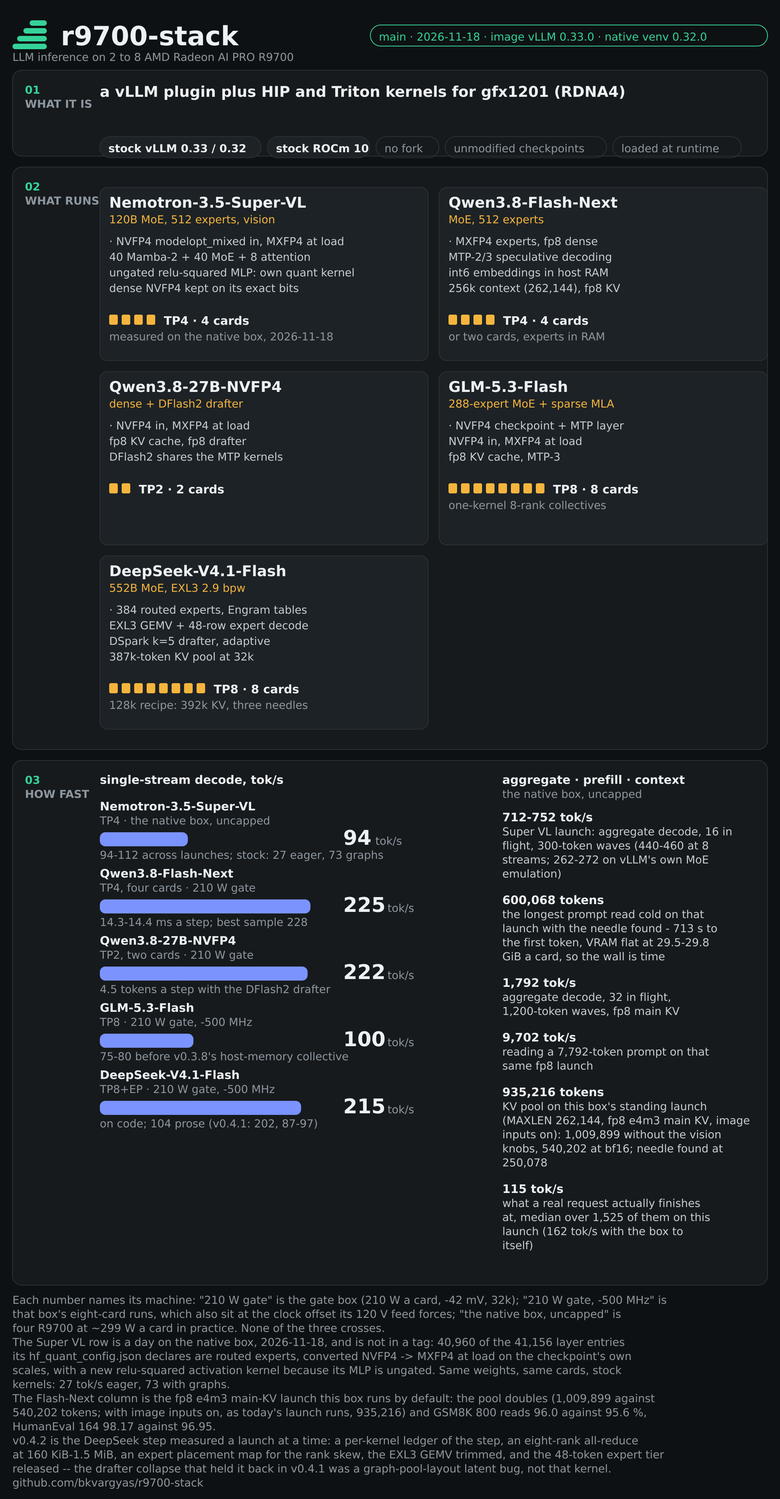
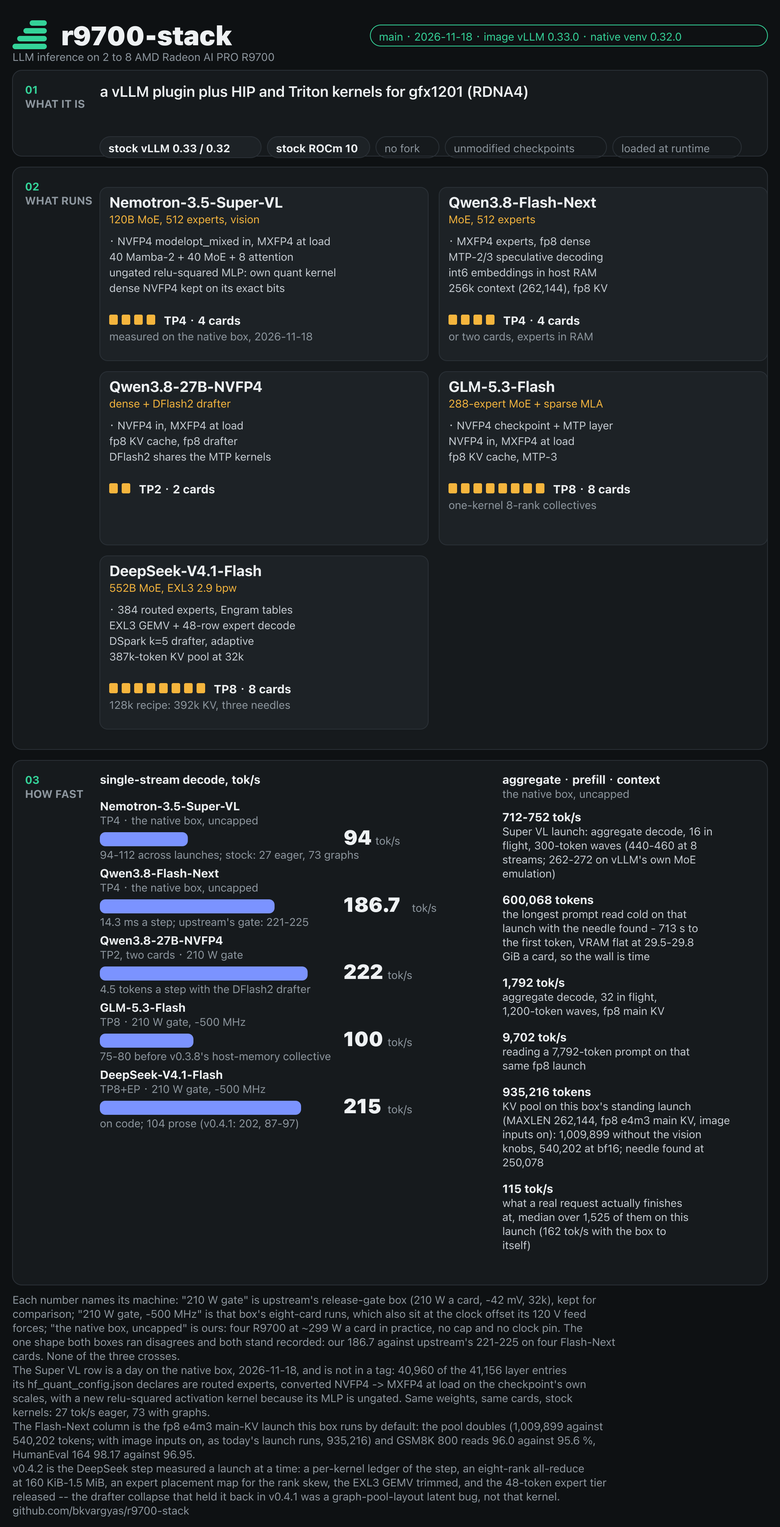
the README and its one-page figure now lead with our own measurements: the native box's 186.7 tok/s heads Flash-Next, and upstream's 210 W gate numbers, ours or not, sit in a labeled comparison column; the page legend names which machine each bar ran on and the recorded 186.7-against-221-225 disagre

Changed region(s): [[0.0, 0.5, 0.93, 1.0], [0.031, 0.0, 0.93, 0.3438], [0.031, 0.375, 0.527, 0.75]]

diff --git a/docs/summary-page.py b/docs/summary-page.py
@@ -75,17 +75,19 @@ MODELS = [
      "128k recipe: 392k KV, three needles"),
 ]
 
-# single-stream decode. Every row names its gate: the 210 W figures and the uncapped ones come from
-# different machines and have never been measured on both, so they do not share a banner.
-GATE, UNCAP = "210 W gate", "the native box, uncapped"
-# the eight-card rows take the gate box's clock offset on top of its power cap: its 120 V feed holds
+# single-stream decode. Every row names its machine: the 210 W figures are upstream's release-gate box
+# and the uncapped ones are ours; the two have never been measured on both, so they do not share a
+# banner. The one shape both boxes ran -- Flash-Next on four cards -- leads with ours at 186.7 and
+# carries upstream's 221-225 in its note: recorded, not reconciled.
+GATE, UNCAP = "210 W gate", "the native box, uncapped"        # upstream's gate box / this fork's box
+# upstream's eight-card rows take that box's clock offset on top of its power cap: its 120 V feed holds
 # eight-card runs to -500 MHz SCLK, so their numbers carry both facts and never share a banner with TP4.
 GATE8 = "210 W gate, -500 MHz"
 BARMAX, BARLEN = 250.0, 300
 BARS = [
     ("Nemotron-3.5-Super-VL", "TP4", 94,
      "94-112 across launches; stock: 27 eager, 73 graphs", UNCAP),
-    ("Qwen3.8-Flash-Next", "TP4, four cards", 225, "14.3-14.4 ms a step; best sample 228", GATE),
+    ("Qwen3.8-Flash-Next", "TP4", 186.7, "14.3 ms a step; upstream's gate: 221-225", UNCAP),
     ("Qwen3.8-27B-NVFP4", "TP2, two cards", 222, "4.5 tokens a step with the DFlash2 drafter", GATE),
     ("GLM-5.3-Flash", "TP8", 100, "75-80 before v0.3.8's host-memory collective", GATE8),
     ("DeepSeek-V4.1-Flash", "TP8+EP", 215, "on code; 104 prose (v0.4.1: 202, 87-97)", GATE8),
@@ -106,9 +108,11 @@ FACTS = [
      "(162 tok/s with the box to itself)"),
 ]
 
-FOOT = ["Each number names its machine: \"210 W gate\" is the gate box (210 W a card, -42 mV, 32k); \"210 W gate, "
-        "-500 MHz\" is that box's eight-card runs, which also sit at the clock offset its 120 V feed forces; \"the "
-        "native box, uncapped\" is four R9700 at ~299 W a card in practice. None of the three crosses.",
+FOOT = ["Each number names its machine: \"210 W gate\" is upstream's release-gate box (210 W a card, -42 mV, 32k), "
+        "kept for comparison; \"210 W gate, -500 MHz\" is that box's eight-card runs, which also sit at the clock "
+        "offset its 120 V feed forces; \"the native box, uncapped\" is ours: four R9700 at ~299 W a card in "
+        "practice, no cap and no clock pin. The one shape both boxes ran disagrees and both stand recorded: our "
+        "186.7 against upstream's 221-225 on four Flash-Next cards. None of the three crosses.",
         "The Super VL row is a day on the native box, 2026-11-18, and is not in a tag: 40,960 of the "
         "41,156 layer entries its hf_quant_config.json declares are routed experts, converted NVFP4 -> MXFP4 at load "
         "on the checkpoint's own scales, with a new relu-squared activation kernel because its MLP is ungated. Same "

diff --git a/README.md b/README.md
@@ -24,12 +24,15 @@ underneath it.
 
 
 > [!NOTE]
-> Every number here came from one of two machines, and every table names which: **the 210 W gate box** (eight R9700,
-> 210 W cap a card, -42 mV, a KVM guest with emulated PCIe switches whose 120 V feed holds eight-card runs to a
-> -500 MHz clock offset) or **the native box** (four R9700, Gen5 host, no docker, **no power cap** — ~299 W a card in
-> practice). Card count is a deployment shape, not a machine, and a 210 W number is never comparable with an uncapped
-> one. The legend with both boxes' settings, and the one place where they disagree, are at the top of
-> <a href="#speed">Speed</a>. Your rig will differ; the serve scripts carry every knob with the reason next to it.
+> Every number here comes from one of two machines, and every table names which — but they are not equals. Our own
+> measurements were taken on **the native box** (four R9700, Gen5 host, no docker, **no power cap** — ~299 W a card
+> in practice), the machine this fork runs day to day, and they lead every table. The other machine is **upstream's
+> release gate**, the **210 W gate box** (eight R9700, 210 W cap a card, -42 mV, a KVM guest with emulated PCIe
+> switches whose 120 V feed holds eight-card runs to a -500 MHz clock offset); its numbers are kept only as a
+> comparison column, never as our results. Card count is a deployment shape, not a machine, and a 210 W number is
+> never comparable with an uncapped one. The legend with both boxes' settings, and the one place where they disagree,
+> are at the top of <a href="#speed">Speed</a>. Your rig will differ; the serve scripts carry every knob with the
+> reason next to it.
 
 <p align="center">
   <a href="docs/r9700-stack-page.png"><img src="docs/r9700-stack-page.svg" alt="r9700-stack main: what runs on it, the weight formats, the speed"></a>
@@ -39,10 +42,11 @@ re-draw cannot drift from them — including which box each bar was measured on.
 it lands at 14 px; the tag's own hand-drawn <code>docs/r9700-stack-v0.4.3.svg</code> carries the same claims at
 11 px on a 1200-unit canvas, which measures out at 9.0 px in that column — clicked-to-read, so the generated page
 is what this README carries. The picture links to <code>docs/r9700-stack-page.png</code>, the same drawing at
-2000 × 3840, for zooming. Every bar names its machine: <code>210 W gate</code> is the gate box (210 W a card, -42 mV,
-32k); <code>210 W gate, -500 MHz</code> is that box's **eight-card** runs, which sit at the clock offset its 120 V
-feed forces on top of the cap; <code>the native box, uncapped</code> is this box's four R9700 at ~299 W a card in
-practice. None of the three crosses.</sub>
+2000 × 3912, for zooming. Every bar names its machine: <code>210 W gate</code> is **upstream's** gate box (210 W a
+card, -42 mV, 32k), kept here as the comparison column; <code>210 W gate, -500 MHz</code> is that box's
+**eight-card** runs, which sit at the clock offset its 120 V feed forces on top of the cap; <code>the native box,
+uncapped</code> is this box's four R9700 at ~299 W a card in practice — our measurements, and the ones the tables
+lead with. None of the three crosses.</sub>
 </p>
 
 <p align="center">
@@ -85,18 +89,19 @@ Qwen3.8-Flash-Next (MoE, 512 experts, MXFP4 experts plus fp8 dense) on four Rade
 
 | | measured | where it came from |
 |---|---:|---|
-| **decoding, one stream** | **225 tok/s** (best sample 228) | 14.3-14.4 ms a step; **the 210 W gate box**, four cards, 32k, the v0.3.3 gate — the four gates since read 221.4-222.9 |
+| **decoding, one stream** | **186.7 tok/s** on this box, uncapped, 14.3 ms a step | upstream's 210 W gate reads **225** there (best sample 228, v0.3.3; the four gates since read 221.4-222.9) — the same four cards capped; the two disagree and that is recorded, not reconciled |
 | **decoding, 32 streams** | **1,823 tok/s** aggregate (best sample 1,836.3) | 1,200-token waves, `bench/probe32.sh`; the native box, uncapped. The fp8 main-KV launch it now defaults to reads **1,792** (1,789 / 1,796) at the same protocol, and the 2026-11-08 standing launch (vLLM 0.32, router cap 4, util 0.96, `PREFIX_CACHE=0`) read **1,767 / 1,780** — inside that spread, so the router cap costs nothing measurable here (notes/bug-router-gemm-oob.md) |
-| **reading a prompt** | **9,633 tok/s** | 7,789-token prompt, the native box uncapped (7,141 at the 210 W gate); **9,702** on the fp8 launch, 7,792 tokens |
+| **reading a prompt** | **9,633 tok/s** | 7,789-token prompt, the native box uncapped; upstream's gate reads 7,141 at 210 W for comparison; **9,702** on the fp8 launch, 7,792 tokens |
 | **context** | **262,144 tokens**, needle found at 250,078 | the checkpoint's own ceiling, and the window this box serves at today; the standing launch (`MM_TP_MODE=data`, replicated vision tower) prints **797,453 tokens** (`Maximum concurrency for 262,144 tokens per request: 3.04x`) — the same launch with the tower split across the ranks printed **887,983** (3.39x), and one before that **902,153** (3.44x), so the pool is what a launch printed, not a property of the config ([notes/context-256k.md](notes/context-256k.md), and the tower price in [notes/multimodal-input.md](notes/multimodal-input.md)) — fp8 e4m3 main KV, image inputs on, `--gpu-memory-utilization 0.96`. At 0.97 the same launch read 935,216 with the vision knobs and 1,009,899 without them; 540,202 at bf16 main KV |
 | **decoding, in real work** (not a benchmark) | **162 tok/s** with the box to yourself, **115 tok/s** as a request actually finishes | 1,568 real requests off the fp8 launch's journal over 10.25 h, the 115 being the median of the 1,525 that generated >=40 tokens, prompts p50 52,083; the benchmark rows above describe a machine nobody sits on |
 
-<sub>Two boxes, two power settings, and these tables do not cross: the second table's first row is the **210 W gate
-box** and the rest is the **native box uncapped** (~299 W a card), each row naming which, and the Super VL table is
-the native box alone. The rows further down add the two-card and eight-card shapes, and the eight-card ones carry the
-gate box's -500 MHz offset too. The last row is not a benchmark at all — it is what the running serve reported about
-other people's requests, and it is the row to believe when asking what a request will feel like. Full protocols,
-sample lists and the measurements that were tried and rejected: <a href="#speed">Speed</a>,
+<sub>These tables lead with **our own measurements on this box** (the native box, four R9700, uncapped, ~299 W a
+card). Where an **upstream 210 W gate-box** number is quoted beside one of ours — the comparison cells in the first
+and third rows — the row says so in place, and the two never cross: no 210 W number is comparable with an uncapped
+one. The Super VL table is this box alone. The Speed section keeps the two-card and eight-card shapes, which are
+upstream gate-box shapes and carry its -500 MHz offset too. The last row is not a benchmark at all — it is what the
+running serve reported about other people's requests, and it is the row to believe when asking what a request will
+feel like. Full protocols, sample lists and the measurements that were tried and rejected: <a href="#speed">Speed</a>,
 <a href="notes/native-4xr9700.md">notes/native-4xr9700.md</a>,
 <a href="notes/context-256k.md">notes/context-256k.md</a>.</sub>
 
@@ -141,67 +146,38 @@ On the four-card native box this fork runs, the main KV cache is fp8 e4m3 by def
 
 ## Speed
 
-Two power settings sit behind these tables, and the capped one spans two hosts. A row that names neither its machine
-nor its power is a row you cannot use:
+Two power settings sit behind these tables, and the capped one spans two hosts — but only one of them is ours, and
+the tables are ordered that way. A row that names neither its machine nor its power is a row you cannot use:
 
-| | **the 210 W gate box** | **the native box** |
+| | **the native box — ours** | **the 210 W gate box — upstream's release gate** |
 |---|---|---|
-| what it is | the release-gate machine: eight R9700 in a KVM guest with emulated PCIe switches, the pinned stock ROCm 10 image, vLLM 0.33.0 | this repo's day-to-day machine: four R9700 on a Gen5 x16 host, no docker, venv vLLM 0.32.0+rocm723 |
-| cards in a launch | 2, 4 or 8 | 4 |
-| power a card | **capped at 210 W**, with a -42 mV offset | **no cap set** — median **299 W** at `gpu_busy_percent` 100 (132 samples, 179-303) |
-| clocks | its 120 V feed holds **eight-card** runs to a **-500 MHz** SCLK offset | stock |
+| what it is | this fork's day-to-day machine: four R9700 on a Gen5 x16 host, no docker, venv vLLM 0.32.0+rocm723 | upstream's release-gate machine: eight R9700 in a KVM guest with emulated PCIe switches, the pinned stock ROCm 10 image, vLLM 0.33.0 |
+| cards in a launch | 4 | 2, 4 or 8 |
+| power a card | **no cap set** — median **299 W** at `gpu_busy_percent` 100 (132 samples, 179-303) | **capped at 210 W**, with a -42 mV offset |
+| clocks | stock | its 120 V feed holds **eight-card** runs to a **-500 MHz** SCLK offset |
 
-One more thing the gate rows carry: from v0.4.x the gate box is **VM100**, the eight-card guest above. The v0.3.2 and
-v0.3.3 rows still quoted below were gated on the older **four-card Gen3 test box** at the same 210 W and -42 mV, and
-the two-card row was measured on both hosts side by side — same cap, different PCIe, which is why it prints 122 and
-143 instead of one number.
+One more thing the gate rows carry: from v0.4.x upstream gates on **VM100**, the eight-card guest above. The v0.3.2
+and v0.3.3 rows still quoted in the comparison section were gated on the older **four-card Gen3 test box** at the
+same 210 W and -42 mV, and the two-card row was measured on both hosts side by side — same cap, different PCIe,
+which is why it prints 122 and 143 instead of one number.
 
-Where this file says **this box**, it means the native box. Three rules follow, and every table below applies them.
-**Card count is a deployment shape, not a machine**: the same 4-card launch has been gated on the first box at 210 W
-and run on the second uncapped, and the two disagree — 225 tok/s single stream at the gate against 186.7 uncapped,
-recorded rather than reconciled, because host, pin and clocks differ and the 210 W figure has never been re-measured
-on the native box. **Nothing at 210 W is comparable with anything uncapped.** And every eight-card number carries the
--500 MHz offset as well as the cap.
+Where this file says **this box** or **our box**, it means the native box. Three rules follow, and every table below
+applies them. **Card count is a deployment shape, not a machine**: the same 4-card launch has been gated upstream at
+210 W and runs here uncapped, and the two disagree — **186.7** tok/s single stream uncapped on this box against
+**225** at the gate — recorded rather than reconciled, because host, pin and clocks differ and the 210 W figure has
+never been re-measured on the native box. **Nothing at 210 W is comparable with anything uncapped.** And every
+eight-card number carries the -500 MHz offset as well as the cap.
 
-### The gate table: 210 W a card, 32k context, single stream unless said otherwise
+The four subsections that open this section are **our measurements, on this box**: a second model this box ran in
+November (Super VL), the 32k recipe, the checkpoint's full 262,144-token context, and real traffic. The first three
+are **benchmarks** — fixed prompt lengths, equal `max_tokens` waves, nothing else arriving while you measure — and
+the real-traffic one is **not**; its decode numbers are roughly a third of the benchmark ones for reasons that are
+understood rather than surprising, and it is the one to read for what a user actually gets. What
+follows them is **upstream's release-gate record** at 210 W — the four / two / eight-card shapes this box does not
+run — kept as a comparison column so the same builds can be read side by side, never mixed into one number with
+ours.
 
-The rows are the release gate, and the record behind them is the tag that last ran a full one —
-[notes/release-v0.4.3.md](notes/release-v0.4.3.md); [notes/release-v0.4.4.md](notes/release-v0.4.4.md) and
-[notes/release-v0.4.5.md](notes/release-v0.4.5.md) say in their own words that they did not re-run it.
-
-Each row names the tags its range spans, and the newest gate is the number in bold. Nothing here is one run: the
-same configuration is re-gated at every release, and a range that spans v0.3.3 to v0.4.3 is a range across image
-pins, `KVMEM` budgets and, for GLM, an instrument change.
-
-| configuration, and the gates the row spans | single stream | aggregate | prompt processing | KV cache |
-|---|---:|---:|---:|---:|
-| **Qwen3.8-27B-NVFP4**, 2 cards, DFlash2 — v0.3.3-v0.4.3 | **217.1 tok/s** (217-222 across the gates; 4.5 tokens a step) | 514 / 655 at 8 / 16 streams | 3,822 tok/s (8k prompt) | 367,494 tokens |
-| **Qwen3.8-Flash-Next**, 4 cards, MTP-3 — v0.3.3-v0.4.3 | **222.9 tok/s** (221-225 across the gates) | 469 / 912 at 8 / 16 | 6,743 tok/s (8k) | 472,025 tokens |
-| **Qwen3.8-Flash-Next**, 2 cards, experts in host RAM — v0.3.2 | 122 (Gen3 test box) / **143** (Gen5) | 177 / 257 at 8 streams | 2.6k / 3.7k | 221,184 tokens |
-| **GLM-5.3-Flash**, 8 cards, MTP-3 — v0.4.0-v0.4.3 | **97.5 tok/s** (88.1 / 93.2 / 95.1 / 97.5, decode-only medians; v0.3.8's gate read **100.0** on the probe, which is not the same instrument) | 173 then 231 at four streams | 2.5-3.4k tok/s | **284,829** at `KVMEM 2.65` (203,329 at v0.4.2, 176,443 at v0.4.1) |
-| **DeepSeek-V4.1-Flash** EXL3 2.9 bpw, 8 cards, DSpark k=5 — v0.4.2-v0.4.3 | **104 prose / 215-222 code** (v0.4.1: 87-97 / 202) | 192-229 prose / 413-422 code at 4 streams, 313-317 / 529-555 at 8 | 3.6k tok/s | 387,069 (32k) / 392,289 (128k recipe) |
-
-The **single stream** column is the gate probe's mean over its four prompt types (code / prose / json / math, run on
-the box rather than from this repo) for the Qwen rows, and the **decode-only median** for GLM from
-v0.4.0 on — that instrument change, not a regression, is why v0.3.8's GLM reads 100.0 and v0.4.0's reads 88.1. The KV
-column moves with `KVMEM` and `UTIL`, not with the model, so each row quotes the newest gate's budget. The eight-card
-rows carry VM100's -500 MHz clock offset on top of the 210 W cap; the four- and two-card rows are cards 0-3 and 0-1 of
-the same box.
-
-Two DGX Sparks on TensorFold serve the same DeepSeek pack at 81 prose / 118 code single stream and 154-166 at four
-streams. DeepSeek accuracy on this stack: GSM8K 193-196 / 200, needles 9 / 9 to 28k and retrieval at 126.7k-token
-prompts, decode flat to 28k of context. How each number was produced, and what was tried and rejected:
-[PROGRESS.md](PROGRESS.md) and `notes/`.
-
-Each subsection below carries its box in the heading. The first is a different model from the gate table; the
-second is the 210 W gate box again; the next two are the native box uncapped, the same recipe at 32k and then at the
-checkpoint's full 262,144 tokens. All of those are **benchmarks**: fixed prompt lengths, equal `max_tokens` waves,
-nothing else arriving while you measure. The last is **not** a benchmark — it is 1,568 real requests that arrived at
-the running serve, plus a 1,400-request window on the launch before it, kept for comparison — and its decode numbers
-are roughly a third of the benchmark ones for reasons that are understood rather than surprising. Read the benchmark
-tables for what the kernels can do; read the real-traffic one for what a user gets.
-
-### Nemotron-3.5-Super-VL-120B-A12B, 512 experts: the native box, four cards, uncapped
+### Our box on a second model: Nemotron-3.5-Super-VL-120B-A12B, 512 experts, four cards, uncapped
 
 What this box ran for a day in 2026-11-18 - parked now, and none of it reverted. The pack is `modelopt_mixed`
 MIXED_PRECISION and **40,960 of
@@ -239,55 +215,7 @@ hours (`hf_quant_config.json`
 is not optional; the plugin registers `modelopt_mixed` inside `register()`, so a broken import quietly serves stock):
 [notes/nemotron-super-vl.md](notes/nemotron-super-vl.md).
 
-### The release configurations: the 210 W gate box, four / two / eight cards, 32k
-
-**Qwen3.8-Flash-Next (MXFP4 experts, fp8 dense), four cards, TP4, MTP-3** — the v0.3.3 gate with a warm cache, kept
-because it is the run the block at the top of this README quotes; v0.4.3's gate on the same four cards of VM100 reads
-222.9 tok/s into a 472,025-token pool.
-
-| | |
-|---|---:|
-| single-stream decode | **225 tok/s**, 14.3 ms a step (best sample 228) |
-| aggregate decode at 1 / 2 / 4 / 8 streams (BetterBench) | 175 / 277 / 410 / 530 tok/s |
-| aggregate decode at 8 / 16 streams (probe) | 620 / 944 tok/s |
-| time to first token | 70-80 ms |
-| prompt processing at 2k / 8k / 16k / 32k | 5,175 / 7,141 / 7,489 / 7,233 tok/s |
-| KV cache | 518,481 tokens |
-
-<details>
-<summary><b>The same model on two cards, and the 27B on two cards</b></summary>
-
-**Qwen3.8-Flash-Next, two cards, TP2, experts in host RAM** — the v0.3.2 gate, measured on two hosts at 210 W:
-
-| | PCIe Gen3 host (test box) | PCIe Gen5 host (production) |
-|---|---:|---:|
-| single-stream decode | 122 tok/s | 143 tok/s |
-| aggregate at 8 / 16 streams | 177 / 163 | 257 / 245 |
-| prompt processing at 8k | 2,594 | 3,724 |
-| KV cache | 221,184 tokens | |
-
-**Qwen3.8-27B-NVFP4, two cards, TP2, DFlash2 speculative decoding** — v0.3.3 warm-cache gate (v0.4.3 re-ran it at
-217.1 tok/s into the same 367,494-token pool):
-
-| | |
-|---|---:|
-| single-stream decode | 222 tok/s (4.5 tokens a step), 22 ms a step |
-| aggregate at 8 / 16 streams | 527 / 640-658 tok/s (probe; equal-prompt bursts match the previous release) |
-| prompt processing at 8k | 3,901-4,143 tok/s |
-| KV cache | 367,494 tokens |
-
-</details>
-
-**DeepSeek-V4.1-Flash EXL3 2.9 bpw, eight cards, TP8 + expert parallel, DSpark k = 5 adaptive** — the **210 W gate
-box at its -500 MHz clock offset**, `NSEQ 4`. The gate numbers are the Speed row above: 104 prose / 215 code single
-stream, 199-221 prose / 422 code at four streams, 317 / 555 at eight, and a **387,069-token** KV pool at
-`KVMEM 2.0`. The bring-up launch that got there is tabulated in [notes/exl3-serving.md](notes/exl3-serving.md)
-(v0.4.0 / v0.4.1, `KVMEM 1.7`: 70-75 prose / 158 code single stream, 187 / 336 at four streams, 329,008 KV tokens,
-GSM8K 195 / 200, needles 9 / 9 to 28k). Read the two as what they are: the decode gap is the Phase 4 kernel packages
-(code 158 -> 202 -> 215 tok/s), not the clock — both arms were measured at the offset — and the KV gap is `KVMEM`
-alone (1.7 = 329,008 against 2.0 = 387,069, and 1.0 at 128k = 392,289).
-
-### The native box, four cards, uncapped, at 32k
+### Our box: four cards, uncapped, at 32k
 
 The same four cards uncapped, on the recipe the box ran before the context was raised (`MAXLEN=32768 NSEQ=16`,
 vLLM 0.32.0+rocm723): 19.16 GiB of weights a card, draft acceptance 56.1% (2.68 tokens a step). This is where the
@@ -304,15 +232,15 @@ prefill and aggregate numbers in the block at the top of this README come from;
 | prompt processing at 1,951 / 7,789 / 31,166 tokens | **7,702 / 9,633 / 8,963 tok/s** |
 | KV cache | 554,982 tokens |
 
-Note that this row and the 210 W gate table disagree: uncapped, a single stream runs at **186.7 tok/s** here, while
-the cap with a -42 mV offset read **225** there (v0.3.3's gate, the run that figure comes from; the gates since read
-221.4-222.9). That is recorded, not reconciled — the two boxes differ in host, pin and clocks, and the 210 W figure
-has never been re-measured on this one.
+Note that this row and upstream's 210 W gate table kept below disagree: uncapped, a single stream runs at **186.7
+tok/s** here, while the cap with a -42 mV offset read **225** there (v0.3.3's gate, the run that figure comes from;
+the gates since read 221.4-222.9). That is recorded, not reconciled — the two boxes differ in host, pin and clocks,
+and the 210 W figure has never been re-measured on this one.
 
-### The native box, four cards, uncapped, at the checkpoint's full 262,144 tokens
+### Our box: four cards, uncapped, at the checkpoint's full 262,144 tokens
 
 The native box (four R9700, **uncapped**, vLLM 0.32.0+rocm723 in a venv), so compare these against the other native-box
-rows and not against the 210 W gate tables. Same model, TP4, MTP-3. Except where a row says otherwise this is the
+rows and not against the upstream 210 W gate tables kept below. Same model, TP4, MTP-3. Except where a row says otherwise this is the
 launch the box runs today: `MAXLEN=262144 NSEQ=32 NBT=8192` at `--gpu-memory-utilization 0.96` — 0.97 asks for
 30.90 GiB of a 31.86 GiB card against a free-at-startup reading that ranged 30.87-31.22 GiB, so it refused at both
 0.32 and 0.33 whenever the reading landed low, a coin flip rather than a regression, and 0.96 costs about 4-5% of the
@@ -342,7 +270,7 @@ fairness knob, not a speed one, and stays off. The retrieval ladder to 250,078 t
 measurements, the standing gate on this launch, the ~299 W median a card at `gpu_busy_percent` 100, and the
 metric-reading traps: [notes/context-256k.md](notes/context-256k.md).
 
-### Real traffic on the native box, not a benchmark
+### Real traffic on our box, not a benchmark
 
 Everything above this line was measured by sending requests on purpose: fixed prompt lengths, equal `max_tokens`,
 and nothing else arriving while the meter runs. That is the right way to compare builds and the wrong way to answer
@@ -384,9 +312,9 @@ and the step shape, not the decode path. Ruled out with the counters that say so
 against 1,823 aggregate), acceptance length (1.33 against 1.55-1.62 drafted tokens accepted) and context depth
 (182.6 tok/s alone under 20k prompt against 150.0 at 80-160k: **a 256k context costs one stream ~13%**).
 
-**And 162 here is not a regression against the 225 in the gate table.** That one is MTP-3 at ~3.1 accepted tokens a
-step at 32k on the 210 W gate box; this launch is MTP=2 at 2.33 a step, on contexts of 20-200k. If single-stream
-decode is wanted back, the knob is drafter depth (`MTP=3`), not the attention path.
+**And 162 here is not a regression against the 225 in upstream's gate table below.** That one is MTP-3 at ~3.1
+accepted tokens a step at 32k on the 210 W gate box; this launch is MTP=2 at 2.33 a step, on contexts of 20-200k. If
+single-stream decode is wanted back, the knob is drafter depth (`MTP=3`), not the attention path.
 
 The bf16 launch before this one (1,400 requests over 13.8 h, prompts p50 74,381, p90 concurrency 6) reads 157.7
 tok/s alone, 22.8 at three-to-four, **60.8** overall — and the two windows are **not** an fp8-vs-bf16 comparison:
@@ -397,6 +325,87 @@ Method, the four denominators, the prefill-by-prompt-size table with its p10/p90
 measurements, the drafter's whole-launch accounting, and the trap that made the first version of this table wrong
 (midpoint concurrency sampled 361 requests as "alone" and reported 137 tok/s):
 [notes/context-256k.md](notes/context-256k.md).
+
+### For comparison: upstream's release gate — 210 W a card, 32k context, four / two / eight cards
+
+Everything in this subsection is **upstream's release-gate record**, measured on the 210 W gate box and kept here
+only as a comparison column; none of it was measured on this box. The rows are the release gate, and the record
+behind them is the tag that last ran a full one — [notes/release-v0.4.3.md](notes/release-v0.4.3.md);
+[notes/release-v0.4.4.md](notes/release-v0.4.4.md) and [notes/release-v0.4.5.md](notes/release-v0.4.5.md) say in
+their own words that they did not re-run it.
+
+Each row names the tags its range spans, and the newest gate is the number in bold. Nothing here is one run: the
+same configuration is re-gated at every release, and a range that spans v0.3.3 to v0.4.3 is a range across image
+pins, `KVMEM` budgets and, for GLM, an instrument change.
+
+| configuration, and the gates the row spans | single stream | aggregate | prompt processing | KV cache |
+|---|---:|---:|---:|---:|
+| **Qwen3.8-27B-NVFP4**, 2 cards, DFlash2 — v0.3.3-v0.4.3 | **217.1 tok/s** (217-222 across the gates; 4.5 tokens a step) | 514 / 655 at 8 / 16 streams | 3,822 tok/s (8k prompt) | 367,494 tokens |
+| **Qwen3.8-Flash-Next**, 4 cards, MTP-3 — v0.3.3-v0.4.3 | **222.9 tok/s** (221-225 across the gates) | 469 / 912 at 8 / 16 | 6,743 tok/s (8k) | 472,025 tokens |
+| **Qwen3.8-Flash-Next**, 2 cards, experts in host RAM — v0.3.2 | 122 (Gen3 test box) / **143** (Gen5) | 177 / 257 at 8 streams | 2.6k / 3.7k | 221,184 tokens |
+| **GLM-5.3-Flash**, 8 cards, MTP-3 — v0.4.0-v0.4.3 | **97.5 tok/s** (88.1 / 93.2 / 95.1 / 97.5, decode-only medians; v0.3.8's gate read **100.0** on the probe, which is not the same instrument) | 173 then 231 at four streams | 2.5-3.4k tok/s | **284,829** at `KVMEM 2.65` (203,329 at v0.4.2, 176,443 at v0.4.1) |
+| **DeepSeek-V4.1-Flash** EXL3 2.9 bpw, 8 cards, DSpark k=5 — v0.4.2-v0.4.3 | **104 prose / 215-222 code** (v0.4.1: 87-97 / 202) | 192-229 prose / 413-422 code at 4 streams, 313-317 / 529-555 at 8 | 3.6k tok/s | 387,069 (32k) / 392,289 (128k recipe) |
+
+The one row that crosses over is the 4-card Flash-Next one: our box's own uncapped number for the same launch is
+**186.7** single stream (the 32k table above), set beside the gate's 221-225 as recorded disagreement, not as a
+comparison that decides anything. The **single stream** column is the gate probe's mean over its four prompt types
+(code / prose / json / math, run on the gate box rather than from this repo) for the Qwen rows, and the
+**decode-only median** for GLM from v0.4.0 on — that instrument change, not a regression, is why v0.3.8's GLM reads
+100.0 and v0.4.0's reads 88.1. The KV column moves with `KVMEM` and `UTIL`, not with the model, so each row quotes
+the newest gate's budget. The eight-card rows carry VM100's -500 MHz clock offset on top of the 210 W cap; the four-
+and two-card rows are cards 0-3 and 0-1 of the same box.
+
+The one third-party row here, for orientation: two DGX Sparks on TensorFold serve the same DeepSeek pack at 81 prose
+/ 118 code single stream and 154-166 at four streams. DeepSeek accuracy on this stack: GSM8K 193-196 / 200, needles
+9 / 9 to 28k and retrieval at 126.7k-token prompts, decode flat to 28k of context. How each number was produced, and
+what was tried and rejected: [PROGRESS.md](PROGRESS.md) and `notes/`.
+
+**The same gate behind the release configurations: Qwen3.8-Flash-Next (MXFP4 experts, fp8 dense), four cards, TP4,
+MTP-3** — the v0.3.3 gate with a warm cache, kept because it is the run the block at the top of this README quotes
+as the comparison figure beside our own; v0.4.3's gate on the same four cards of VM100 reads 222.9 tok/s into a
+472,025-token pool.
+
+| | |
+|---|---:|
+| single-stream decode | **225 tok/s**, 14.3 ms a step (best sample 228) |
+| aggregate decode at 1 / 2 / 4 / 8 streams (BetterBench) | 175 / 277 / 410 / 530 tok/s |
+| aggregate decode at 8 / 16 streams (probe) | 620 / 944 tok/s |
+| time to first token | 70-80 ms |
+| prompt processing at 2k / 8k / 16k / 32k | 5,175 / 7,141 / 7,489 / 7,233 tok/s |
+| KV cache | 518,481 tokens |
+
+<details>
+<summary><b>The same model on two cards, and the 27B on two cards</b></summary>
+
+**Qwen3.8-Flash-Next, two cards, TP2, experts in host RAM** — the v0.3.2 gate, measured on two hosts at 210 W:
+
+| | PCIe Gen3 host (test box) | PCIe Gen5 host (production) |
+|---|---:|---:|
+| single-stream decode | 122 tok/s | 143 tok/s |
+| aggregate at 8 / 16 streams | 177 / 163 | 257 / 245 |
+| prompt processing at 8k | 2,594 | 3,724 |
+| KV cache | 221,184 tokens | |
+
+**Qwen3.8-27B-NVFP4, two cards, TP2, DFlash2 speculative decoding** — v0.3.3 warm-cache gate (v0.4.3 re-ran it at
+217.1 tok/s into the same 367,494-token pool):
+
+| | |
+|---|---:|
+| single-stream decode | 222 tok/s (4.5 tokens a step), 22 ms a step |
+| aggregate at 8 / 16 streams | 527 / 640-658 tok/s (probe; equal-prompt bursts match the previous release) |
+| prompt processing at 8k | 3,901-4,143 tok/s |
+| KV cache | 367,494 tokens |
+
+</details>
+
+**DeepSeek-V4.1-Flash EXL3 2.9 bpw, eight cards, TP8 + expert parallel, DSpark k = 5 adaptive** — the **210 W gate
+box at its -500 MHz clock offset**, `NSEQ 4`. The gate numbers are the gate table above: 104 prose / 215 code single
+stream, 199-221 prose / 422 code at four streams, 317 / 555 at eight, and a **387,069-token** KV pool at
+`KVMEM 2.0`. The bring-up launch that got there is tabulated in [notes/exl3-serving.md](notes/exl3-serving.md)
+(v0.4.0 / v0.4.1, `KVMEM 1.7`: 70-75 prose / 158 code single stream, 187 / 336 at four streams, 329,008 KV tokens,
+GSM8K 195 / 200, needles 9 / 9 to 28k). Read the two as what they are: the decode gap is the Phase 4 kernel packages
+(code 158 -> 202 -> 215 tok/s), not the clock — both arms were measured at the offset — and the KV gap is `KVMEM`
+alone (1.7 = 329,008 against 2.0 = 387,069, and 1.0 at 128k = 392,289).
 
 ## What the kernels do
 
